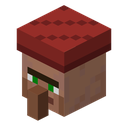
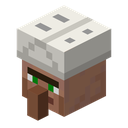
Give each worker profession its own look
The skins all shared one apron and cap and only differed in colour, so
several professions looked alike. Each one now has its own headwear and
clothes: the smith a headband and a heavy leather apron, the carpenter a
paper hat and a tool apron with a folding rule, the sawyer an olive flat
cap, the stone sawyer a wool cap with goggles and a dust mask, the carrier
a felt hat with a brim and a teal tunic. Peaks and brims are painted on
the hat rim of the villager model.

The wiki renderer drew the hat rim back to front, which only showed now
that rims are no longer round.

Claude-Session: https://claude.ai/code/session_01SEiq4S7feoXuk9bESQXvYH

diff --git a/tools/generate_textures.py b/tools/generate_textures.py
@@ -85,73 +85,200 @@ def lumberjack():
     return image
 
 
-def apron_worker(cloth, cloth_dark, dust, cap, cap_dark, goggles=False):
-    """Villager profession overlay (64x64, vanilla villager UV layout): a work apron with
-    dust on it and a cap; optionally safety goggles on the cap."""
-    image = blank(64)
-    p = image.load()
-    strap = (70, 50, 35, 255)
-
-    def apron(x, y):
-        if (x * 7 + y * 13) % 11 == 0:
-            return dust
-        return cloth_dark if y % 4 == 3 else cloth
-
-    for y in range(46, 60):
-        for x in range(6, 14):
-            p[x, y] = apron(x, y)  # apron on the front of the robe
-    for y in range(28, 38):
-        for x in range(23, 29):
-            p[x, y] = apron(x, y)  # bib on the front of the body
-    for y in range(20, 28):
-        p[23, y] = p[28, y] = strap  # neck straps
-    for x in range(16, 44):
-        p[x, 36] = strap  # apron string around the waist
-    for x in range(0, 28):
-        p[x, 45] = strap
-    for y in range(0, 8):
-        for x in range(40, 48):
-            p[x, y] = cap if (x + y) % 5 else cap_dark  # cap top
-    for y in range(8, 11):
-        for x in range(32, 64):
-            p[x, y] = cap if y < 10 else cap_dark  # cap band
-    if goggles:
-        glass, frame = (120, 180, 200, 255), (40, 40, 45, 255)
-        for x in range(40, 48):
-            p[x, 11] = frame
-        for x in (41, 42, 45, 46):
-            p[x, 11] = glass
-        for x in list(range(32, 40)) + list(range(48, 64)):
-            p[x, 11] = frame  # strap around the head
-    return image
+def hat_rim(p, color, reach, front=0):
+    """Paints the hat rim of the villager model, a 16x16 plate around the head, as a brim
+    `reach` pixels wide with `front` more pixels at the front. The model tips the plate
+    forward, so the bottom rows of its texture are at the front; it is painted on both
+    faces so it shows from above and below."""
+    for x0 in (31, 48):
+        for v in range(16):
+            for u in range(16):
+                side = max(4 - u, u - 11)
+                if 4 <= u < 12 and 4 <= v < 12:
+                    continue  # inside the head
+                if side <= reach and 4 - v <= reach and v - 11 <= reach + front:
+                    p[x0 + u, 48 + v] = color(u, v)
 
 
 def wood_sawyer():
-    """Leather apron covered in sawdust and a green cap."""
-    return apron_worker(
-        (120, 80, 45, 255), (100, 65, 35, 255), (225, 200, 150, 255), (60, 110, 60, 255), (40, 80, 40, 255)
-    )
+    """Villager profession overlay: an olive flat cap with a short peak (the front of the
+    hat rim); an olive work shirt with sawdust on it, leather braces, brown trousers and
+    boots."""
+    image = blank(64)
+    p = image.load()
+    olive, olive_dark, olive_light = (120, 130, 70, 255), (95, 104, 52, 255), (140, 150, 88, 255)
+    cap, cap_dark, cap_fleck = (78, 86, 45, 255), (58, 64, 32, 255), (105, 112, 70, 255)
+    sawdust, braces, buckle = (230, 205, 150, 255), (100, 62, 34, 255), (200, 170, 80, 255)
+    trousers, trousers_dark, boots = (105, 75, 48, 255), (85, 60, 38, 255), (45, 34, 26, 255)
+
+    def fill(x0, y0, x1, y1, color):
+        for y in range(y0, y1):
+            for x in range(x0, x1):
+                p[x, y] = color(x, y)
+
+    shirt = lambda x, y: sawdust if (x * 7 + y * 13) % 17 == 0 else olive_dark if y % 4 == 3 else olive
+    trouser = lambda x, y: sawdust if (x * 5 + y * 3) % 19 == 0 else trousers_dark if x % 3 == 0 else trousers
+    fill(16, 20, 44, 38, shirt)  # body
+    fill(6, 38, 14, 44, shirt)  # jacket top
+    fill(0, 44, 28, 54, shirt)  # jacket, upper part
+    fill(0, 54, 28, 64, trouser)  # jacket, lower part: trousers
+    fill(0, 54, 28, 55, lambda x, y: braces)  # waistband
+    for y in range(38, 54):
+        for x in ((7, 12) if y < 44 else (7, 12, 21, 26)):
+            p[x, y] = braces  # braces over the shoulders, down the front and back
+    for y in range(20, 38):
+        p[23, y] = p[28, y] = p[38, y] = p[41, y] = braces  # braces on the body
+    p[7, 52] = p[12, 52] = buckle
+    fill(44, 22, 60, 34, shirt)  # arms
+    fill(40, 38, 64, 46, shirt)  # crossed arms, middle part
+    fill(0, 22, 16, 34, trouser)  # legs
+    fill(0, 34, 16, 38, lambda x, y: boots)
+    tweed = lambda x, y: cap_fleck if (x * 3 + y * 5) % 7 == 0 else cap
+    fill(40, 0, 48, 8, tweed)  # cap top
+    fill(32, 8, 64, 10, tweed)  # cap sides
+    fill(32, 10, 64, 11, lambda x, y: cap_dark)
+    fill(40, 8, 48, 9, lambda x, y: cap_dark)  # seam where the crown is pulled over the peak
+    hat_rim(p, lambda u, v: cap_dark if v == 13 else cap, 0, front=2)  # peak
+    return image
 
 
 def stone_sawyer():
-    """Grey canvas apron covered in stone dust, a dark cap and safety goggles."""
-    return apron_worker(
-        (110, 110, 115, 255), (90, 90, 95, 255), (200, 200, 200, 255), (70, 70, 80, 255), (50, 50, 60, 255), goggles=True
-    )
+    """Villager profession overlay: a ribbed grey wool cap with safety goggles on it and a
+    dust mask over the nose; a light grey smock covered in stone dust with a belt, dark
+    grey trousers and boots."""
+    image = blank(64)
+    p = image.load()
+    smock, smock_dark, dust = (150, 150, 155, 255), (125, 125, 130, 255), (215, 215, 212, 255)
+    wool, wool_dark = (95, 98, 105, 255), (72, 75, 82, 255)
+    glass, glass_light, frame = (110, 170, 195, 255), (175, 220, 235, 255), (40, 40, 45, 255)
+    mask, mask_dark = (228, 226, 218, 255), (195, 193, 185, 255)
+    belt, buckle = (60, 50, 45, 255), (170, 170, 175, 255)
+    trousers, boots = (75, 75, 82, 255), (40, 38, 38, 255)
+
+    def fill(x0, y0, x1, y1, color):
+        for y in range(y0, y1):
+            for x in range(x0, x1):
+                p[x, y] = color(x, y)
+
+    work = lambda x, y: dust if (x * x + y * 3) % 7 == 0 else smock_dark if y % 4 == 3 else smock
+    fill(16, 20, 44, 38, work)  # body
+    fill(6, 38, 14, 44, work)  # jacket top
+    fill(0, 44, 28, 60, work)  # jacket: the smock
+    fill(0, 60, 28, 64, lambda x, y: trousers)  # jacket, lower part
+    fill(0, 52, 28, 53, lambda x, y: belt)  # belt
+    p[9, 52] = p[10, 52] = buckle
+    fill(44, 22, 60, 34, work)  # arms
+    fill(40, 38, 64, 46, work)  # crossed arms, middle part
+    fill(0, 22, 16, 34, lambda x, y: trousers)  # legs
+    fill(0, 34, 16, 38, lambda x, y: boots)
+    fill(40, 0, 48, 8, lambda x, y: wool_dark if x % 2 else wool)  # wool cap top
+    fill(32, 8, 64, 12, lambda x, y: wool_dark if x % 2 else wool)  # ribbed sides
+    fill(32, 11, 64, 12, lambda x, y: wool_dark)  # turned up edge
+    fill(32, 10, 64, 11, lambda x, y: frame)  # goggle strap
+    fill(41, 9, 47, 11, lambda x, y: frame)  # goggles pushed up on the cap
+    p[42, 9] = p[45, 9] = glass_light
+    p[42, 10] = p[43, 10] = p[45, 10] = p[46, 10] = glass
+    p[43, 9] = p[46, 9] = glass
+    fill(24, 0, 32, 6, lambda x, y: mask_dark if y == 5 else mask)  # dust mask over the nose
+    fill(32, 15, 40, 16, lambda x, y: mask_dark)  # its strings around the head
+    fill(48, 15, 64, 16, lambda x, y: mask_dark)
+    return image
 
 
 def carpenter():
-    """Blue canvas apron covered in wood shavings and a red cap."""
-    return apron_worker(
-        (70, 95, 140, 255), (55, 75, 115, 255), (235, 210, 150, 255), (150, 45, 40, 255), (110, 32, 30, 255)
-    )
+    """Villager profession overlay: a folded paper hat with a pencil behind the ear; a sand
+    coloured work smock with wood shavings on it, a short leather tool apron at the waist
+    with a yellow folding rule in its pocket, brown corduroy trousers and boots."""
+    image = blank(64)
+    p = image.load()
+    smock, smock_dark, shavings = (215, 195, 150, 255), (185, 165, 122, 255), (240, 225, 185, 255)
+    leather, leather_dark = (125, 82, 48, 255), (92, 58, 32, 255)
+    rule, rule_mark = (235, 195, 45, 255), (60, 50, 30, 255)
+    cord, cord_dark, boots = (100, 72, 48, 255), (80, 56, 36, 255), (45, 35, 28, 255)
+    paper, paper_fold, print_ = (238, 236, 228, 255), (200, 198, 190, 255), (150, 150, 150, 255)
+    wood, graphite = (225, 185, 60, 255), (50, 50, 55, 255)
+
+    def fill(x0, y0, x1, y1, color):
+        for y in range(y0, y1):
+            for x in range(x0, x1):
+                p[x, y] = color(x, y)
+
+    work = lambda x, y: shavings if (x * 7 + y * 11) % 13 == 0 else smock_dark if y % 4 == 3 else smock
+    fill(16, 20, 44, 38, work)  # body
+    fill(6, 38, 14, 44, work)  # jacket top
+    fill(0, 44, 28, 56, work)  # jacket, upper part
+    fill(0, 56, 28, 64, lambda x, y: cord_dark if x % 2 else cord)  # jacket, lower part: trousers
+    fill(0, 52, 28, 53, lambda x, y: leather_dark)  # belt of the tool apron
+    fill(5, 53, 15, 59, lambda x, y: leather)  # tool apron on the front of the robe
+    fill(5, 58, 15, 59, lambda x, y: leather_dark)  # hem
+    fill(6, 55, 14, 56, lambda x, y: leather_dark)  # pocket seam
+    p[9, 55] = p[10, 55] = leather  # the pockets are split in the middle
+    for y in range(50, 56):
+        p[12, y] = rule_mark if y % 2 else rule  # folding rule standing in the pocket
+    p[7, 54] = p[7, 55] = graphite  # a pencil in the other pocket
+    p[7, 53] = wood
+    fill(44, 22, 60, 34, work)  # arms
+    fill(40, 38, 64, 46, work)  # crossed arms, middle part
+    fill(0, 22, 16, 34, lambda x, y: cord_dark if x % 2 else cord)  # legs
+    fill(0, 34, 16, 38, lambda x, y: boots)
+    fill(40, 0, 48, 8, lambda x, y: paper_fold if x == 44 else print_ if y in (2, 5) and x in (41, 42, 46) else paper)  # hat top, a folded newspaper
+    fill(32, 8, 64, 11, lambda x, y: paper)  # hat sides
+    fill(32, 11, 64, 12, lambda x, y: paper_fold)  # folded edge
+    for x0 in (40, 56):  # the fold forms a point on the front and the back
+        for i in range(3):
+            p[x0 + 3 - i, 8 + i] = p[x0 + 4 + i, 8 + i] = paper_fold
+    for x in range(34, 38):
+        p[x, 13] = wood  # pencil behind the ear
+    p[33, 13] = graphite
+    return image
 
 
 def smith():
-    """Dark leather apron with soot and ember burns, and a charcoal cap."""
-    return apron_worker(
-        (75, 50, 35, 255), (55, 36, 25, 255), (230, 120, 40, 255), (45, 45, 50, 255), (25, 25, 30, 255)
-    )
+    """Villager profession overlay: no hat, only a leather headband; a heavy black leather
+    apron down to the knees with ember burns over a linen shirt with rolled up sleeves,
+    leather gloves, dark trousers and boots."""
+    image = blank(64)
+    p = image.load()
+    leather, leather_dark, leather_light = (42, 38, 36, 255), (28, 25, 24, 255), (66, 60, 54, 255)
+    linen, linen_dark = (160, 145, 118, 255), (132, 118, 92, 255)
+    glove, glove_dark = (110, 72, 42, 255), (82, 52, 30, 255)
+    trousers, boots, strap = (58, 54, 60, 255), (32, 27, 25, 255), (95, 60, 30, 255)
+    ember, ember_bright = (225, 105, 35, 255), (250, 190, 80, 255)
+
+    def fill(x0, y0, x1, y1, color):
+        for y in range(y0, y1):
+            for x in range(x0, x1):
+                p[x, y] = color(x, y)
+
+    shirt = lambda x, y: linen_dark if (x * 3 + y * 5) % 9 == 0 else linen
+    apron = lambda x, y: leather_light if (x * 7 + y * 3) % 10 == 0 else leather_dark if y % 5 == 4 else leather
+    fill(16, 20, 44, 38, shirt)  # body
+    fill(22, 27, 30, 38, apron)  # bib on the front of the body
+    fill(6, 38, 14, 44, shirt)  # jacket top
+    fill(0, 44, 28, 52, shirt)  # jacket, upper part
+    fill(0, 52, 28, 64, lambda x, y: trousers)  # jacket, lower part
+    fill(5, 44, 15, 62, apron)  # apron on the front of the robe, wrapping around the edges
+    for x in range(0, 28):
+        if not 5 <= x < 15:
+            p[x, 52] = strap  # apron string around the waist
+    for y in range(20, 27):
+        p[23, y] = p[28, y] = strap  # neck straps over the shoulders
+    for i in range(8):
+        p[36 + i, 26 + i] = p[43 - i, 26 + i] = strap  # straps crossed on the back
+    for x, y, color in [(7, 48, ember), (12, 51, ember_bright), (9, 55, ember), (13, 58, ember),
+                        (6, 59, ember_bright), (10, 60, ember), (25, 31, ember), (27, 35, ember_bright)]:
+        p[x, y] = color  # burns from flying sparks
+    fill(44, 22, 60, 31, shirt)  # arms: rolled up sleeves
+    fill(44, 30, 60, 31, lambda x, y: linen_dark)  # rolled up cuff
+    fill(44, 31, 60, 34, lambda x, y: glove)  # gloves
+    fill(52, 22, 56, 26, lambda x, y: glove)  # end of the arm
+    fill(40, 38, 64, 46, lambda x, y: glove_dark if (x + y) % 4 == 0 else glove)  # crossed arms, middle part
+    fill(0, 22, 16, 34, lambda x, y: trousers)  # legs
+    fill(0, 34, 16, 38, lambda x, y: boots)
+    fill(32, 9, 64, 10, lambda x, y: strap)  # headband
+    fill(32, 10, 64, 11, lambda x, y: glove_dark)
+    p[60, 11] = p[61, 12] = glove_dark  # knot ends on the back of the head
+    return image
 
 
 def farmer():
@@ -226,20 +353,43 @@ def wicker_basket_entity():
 
 
 def carrier():
-    """Villager profession overlay: leather straps of the basket over the shoulders, on the
-    front, top and back of the robe, and a straw hat band."""
+    """Villager profession overlay: a brown felt travelling hat with a brim (the hat rim) and
+    a teal band; a teal travelling tunic with a belt, the leather straps of the basket over
+    the shoulders, brown trousers and tall boots."""
     image = blank(64)
     p = image.load()
+    teal, teal_dark, teal_light = (45, 125, 125, 255), (32, 98, 100, 255), (70, 150, 148, 255)
+    felt, felt_dark = (110, 80, 55, 255), (85, 60, 40, 255)
     strap, buckle = (90, 60, 35, 255), (200, 170, 80, 255)
+    trousers, boots, boots_dark = (95, 75, 55, 255), (70, 45, 28, 255), (50, 32, 20, 255)
+
+    def fill(x0, y0, x1, y1, color):
+        for y in range(y0, y1):
+            for x in range(x0, x1):
+                p[x, y] = color(x, y)
+
+    tunic = lambda x, y: teal_light if (x * 3 + y * 7) % 13 == 0 else teal_dark if y % 4 == 3 else teal
+    fill(16, 20, 44, 38, tunic)  # body
+    fill(6, 38, 14, 44, tunic)  # jacket top
+    fill(0, 44, 28, 58, tunic)  # jacket: the tunic
+    fill(0, 58, 28, 64, lambda x, y: trousers)  # jacket, lower part
+    fill(0, 54, 28, 55, lambda x, y: strap)  # belt
     for y in range(38, 44):
-        p[7, y] = p[12, y] = strap  # robe top (shoulders)
+        p[7, y] = p[12, y] = strap  # basket straps on the robe top (shoulders)
     for y in range(44, 53):
         p[7, y] = p[12, y] = strap  # robe front
     for y in range(44, 55):
         p[21, y] = p[26, y] = strap  # robe back, down to the basket
     p[7, 50] = p[12, 50] = buckle
-    for x in range(32, 64):
-        p[x, 9] = (215, 190, 120, 255)  # hat band
+    fill(44, 22, 60, 34, tunic)  # arms
+    fill(40, 38, 64, 46, tunic)  # crossed arms, middle part
+    fill(0, 22, 16, 28, lambda x, y: trousers)  # legs
+    fill(0, 28, 16, 38, lambda x, y: boots_dark if y in (28, 37) else boots)  # tall boots
+    felt_cloth = lambda x, y: felt_dark if (x * 5 + y * 3) % 11 == 0 else felt
+    fill(40, 0, 48, 8, felt_cloth)  # hat top
+    fill(32, 8, 64, 10, felt_cloth)  # hat sides
+    fill(32, 10, 64, 11, lambda x, y: teal_dark)  # hat band
+    hat_rim(p, lambda u, v: felt_dark if max(4 - u, u - 11, 4 - v, v - 11) == 2 else felt, 2)  # brim
     return image
 
 

diff --git a/tools/generate_wiki_assets.py b/tools/generate_wiki_assets.py
@@ -394,10 +394,11 @@ def villager_head(assets, profession):
     faces += entity_box(skin, 24, 0, (2, 4, 2), (3, -1, -2))
     rim = profession_tex.crop((30, 47, 64, 64))
     if rim.getbbox():
-        # The hat rim: a 16x16 plate, one pixel thick, laid flat around the head.
+        # The hat rim: a 16x16 plate, one pixel thick, laid flat around the head. The model
+        # tips it forward, so the bottom row of its texture is at the front of the head.
         y = 5
         corners = ((-4, y + 1, -4), (12, y + 1, -4), (-4, y + 1, 12))
-        faces.append(Face(corners, skin, [(31, 48), (47, 48), (31, 64)]))
+        faces.append(Face(corners, skin, [(31, 64), (47, 64), (31, 48)]))
         # Its edges: the front one is the plate's bottom row, the side one a column of its side.
         faces.append(Face(((12, y + 1, -4), (-4, y + 1, -4), (12, y, -4)), skin, [(47, 47), (63, 47), (47, 48)]))
         faces.append(Face(((-4, y + 1, -4), (-4, y + 1, 12), (-4, y, -4)), skin, [(30, 64), (30, 48), (31, 64)]))
